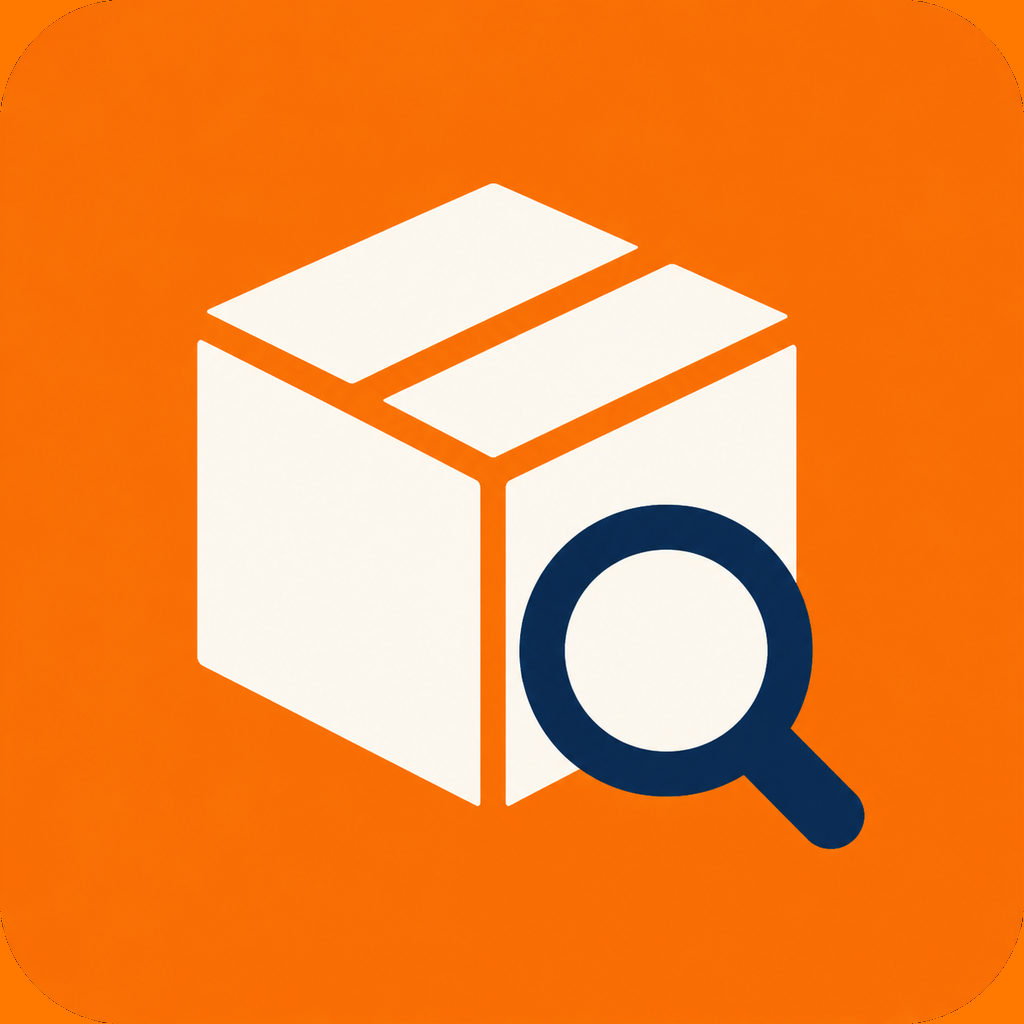
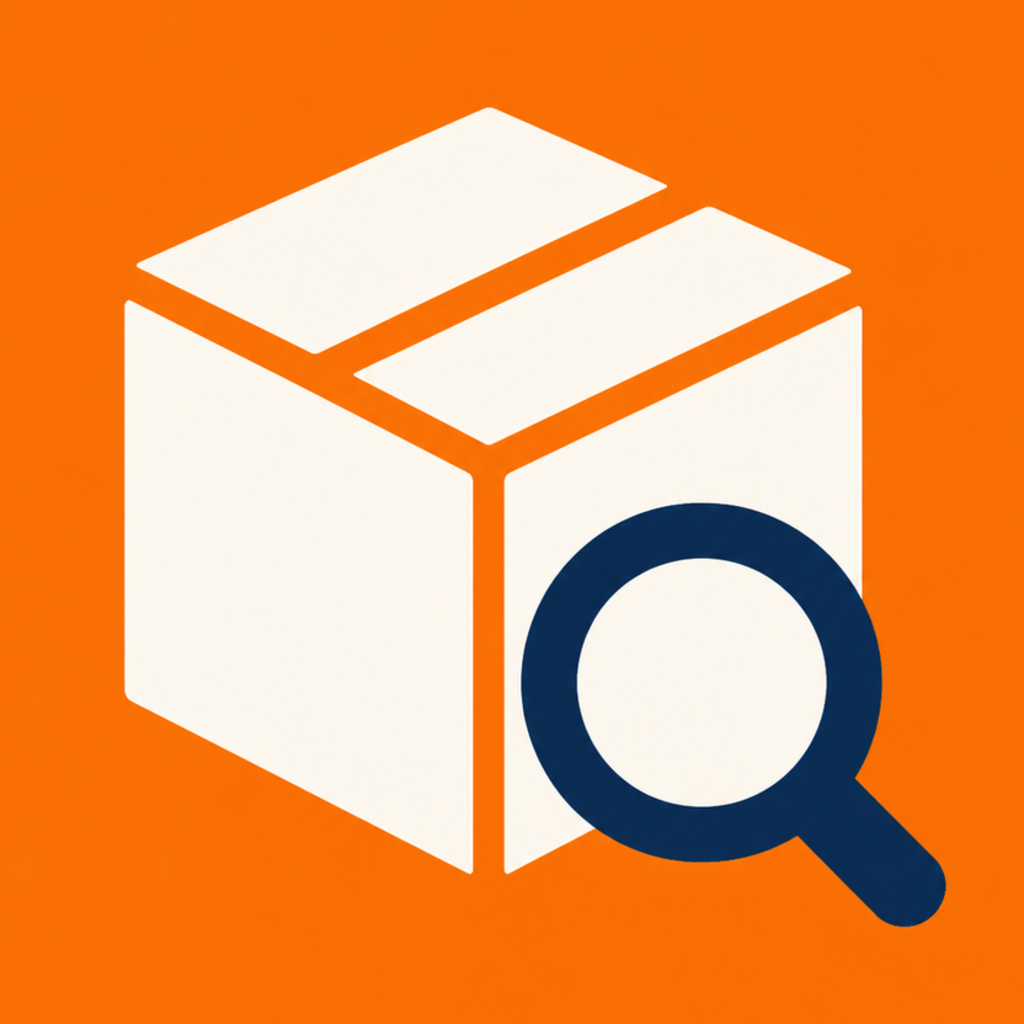
fix(plugins): address review feedback

Changed region(s): [[0.0938, 0.0938, 0.9375, 0.9062]]

diff --git a/scripts/plugin-icons.test.js b/scripts/plugin-icons.test.js
@@ -108,6 +108,14 @@ function isWhiteOrBlack([red, green, blue]) {
   );
 }
 
+function colorDistance(left, right) {
+  return (
+    Math.abs(left[0] - right[0]) +
+    Math.abs(left[1] - right[1]) +
+    Math.abs(left[2] - right[2])
+  );
+}
+
 test("plugin presentation icons use flat PNG assets", async () => {
   const pluginNames = await fs.readdir(pluginsRoot);
 
@@ -141,6 +149,23 @@ test("plugin presentation icons use flat PNG assets", async () => {
     assert(!isWhiteOrBlack(corners[0]), `${pluginName} icon has a white/black corner`);
     for (const corner of corners) {
       assert(!isWhiteOrBlack(corner), `${pluginName} icon has a white/black corner`);
+    }
+
+    const inset = 64;
+    const rimSamples = [
+      [image.pixelAt(0, 0), image.pixelAt(inset, inset)],
+      [image.pixelAt(image.width - 1, 0), image.pixelAt(image.width - 1 - inset, inset)],
+      [image.pixelAt(0, image.height - 1), image.pixelAt(inset, image.height - 1 - inset)],
+      [
+        image.pixelAt(image.width - 1, image.height - 1),
+        image.pixelAt(image.width - 1 - inset, image.height - 1 - inset),
+      ],
+    ];
+    for (const [corner, insideCorner] of rimSamples) {
+      assert(
+        colorDistance(corner, insideCorner) <= 20,
+        `${pluginName} icon appears to have a rounded-tile corner rim`
+      );
     }
 
     await assert.rejects(

diff --git a/AGENTS.md b/AGENTS.md
@@ -64,6 +64,11 @@ agent-plugins/
 │   │   ├── .codex-plugin/plugin.json
 │   │   ├── assets/
 │   │   └── skills/
+│   ├── agent-sdlc/
+│   │   ├── .codex-plugin/plugin.json
+│   │   ├── assets/
+│   │   ├── scripts/
+│   │   └── skills/
 │   ├── amazon/
 │   │   ├── .codex-plugin/plugin.json
 │   │   ├── assets/